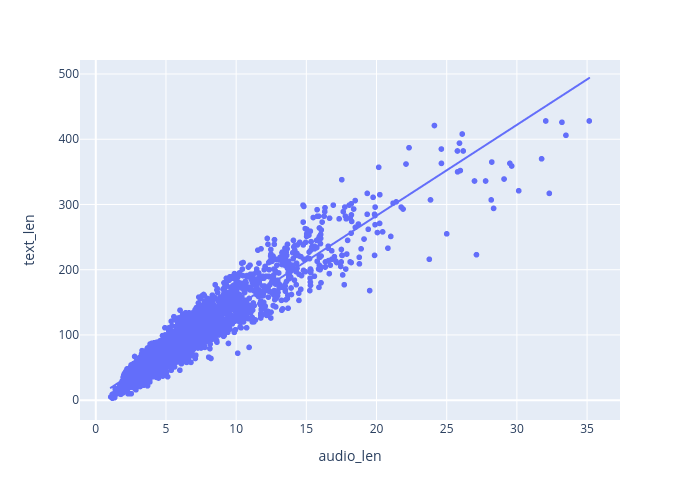
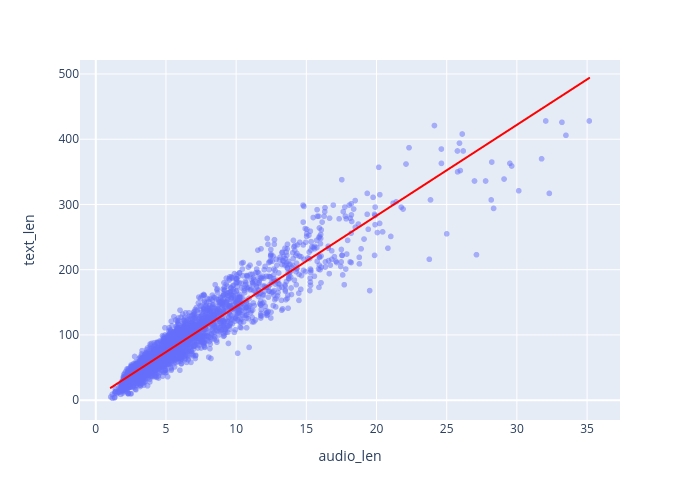
Make line red

diff --git a/src/plot_dataset_properties.py b/src/plot_dataset_properties.py
@@ -20,7 +20,7 @@ def plot_audio_text_correlation():
     text_len = "text_len"
     audio_len = "audio_len"
     df.columns = [text_len, audio_len]
-    fig = px.scatter(df, x=audio_len, y=text_len, trendline='ols')
+    fig = px.scatter(df, x=audio_len, y=text_len, trendline='ols', opacity=0.5, trendline_color_override="red")
     fig.write_image(Path(ROOT_DIR) / "artifacts" / "dataset_audio_len_to_text_len.png")
 
 
